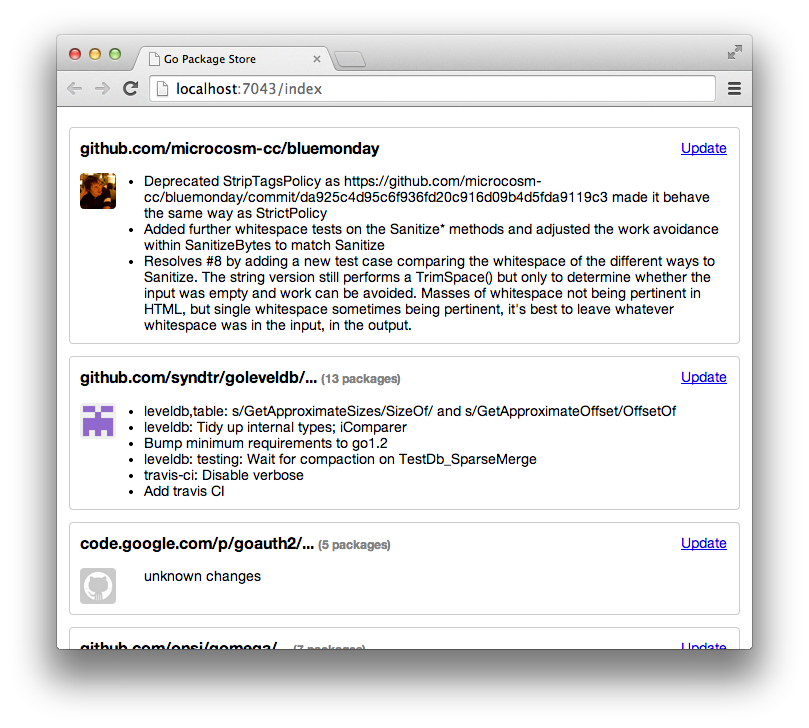
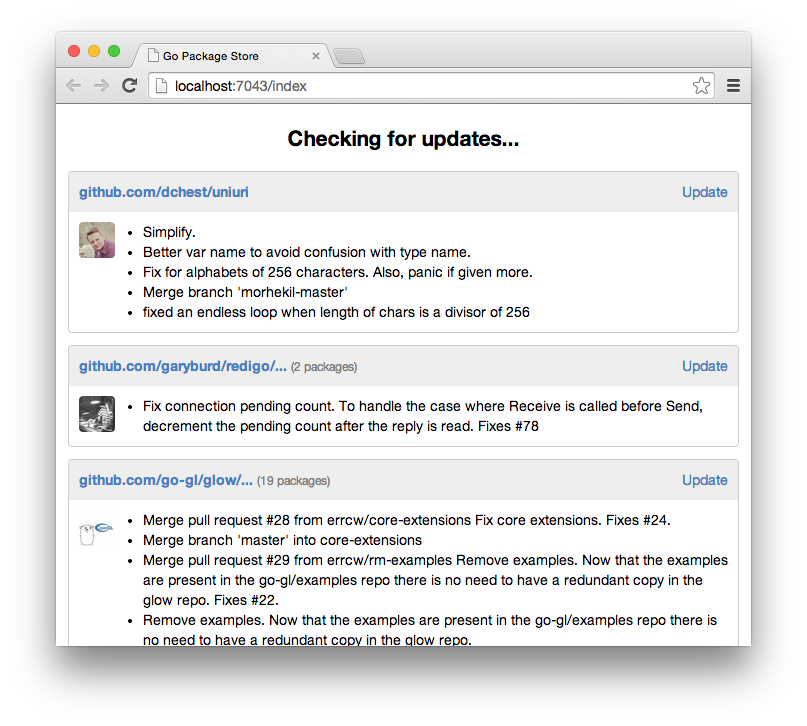
Improve layout, add colored header.
Update screenshot to reflect new look.

Changed region(s): [[0.031, 0.0606, 0.9603, 0.9394], [0.8364, 0.1818, 0.8984, 0.2121]]

diff --git a/assets/style.css b/assets/style.css
@@ -1,6 +1,7 @@
 body {
 	font-family: "Helvetica Neue", Helvetica, Arial, sans-serif;
 	font-size: 14px;
+	line-height: 1.428571429;
 	margin: 12px;
 	margin-top: 20px;
 	margin-bottom: 80px;
@@ -24,20 +25,21 @@ span.smaller {
 	color: gray;
 }
 
-div.border-rounded {
+div.list-entry {
 	border: 1px solid #cccccc;
 	border-radius: 4px;
-
-	padding: 10px;
-}
-h3 {
-	margin-top: 0px;
-}
-div.list-entry {
 	margin-bottom: 12px;
 }
-.update-button {
-	position: absolute;
-	top: 12px;
-	right: 12px;
+div.list-entry-header {
+	background-color: #eeeeee;
+	padding: 10px;
+	border-radius: 4px 4px 0 0;
+}
+div.list-entry-body {
+	padding: 10px;
+}
+.changes-list {
+	margin-top: 0px;
+	margin-bottom: 0px;
+	padding-left: 64px;
 }

diff --git a/main.go b/main.go
@@ -186,6 +186,12 @@ func (repo Repo) WebLink() *template.URL {
 }
 
 func mainHandler(w http.ResponseWriter, r *http.Request) {
+	// TODO: When "finished", should not reload templates from disk on each request... Unless using a dev flag?
+	if err := loadTemplates(); err != nil {
+		fmt.Fprintln(w, "loadTemplates:", err)
+		return
+	}
+
 	started := time.Now()
 
 	CommonHat(w)
